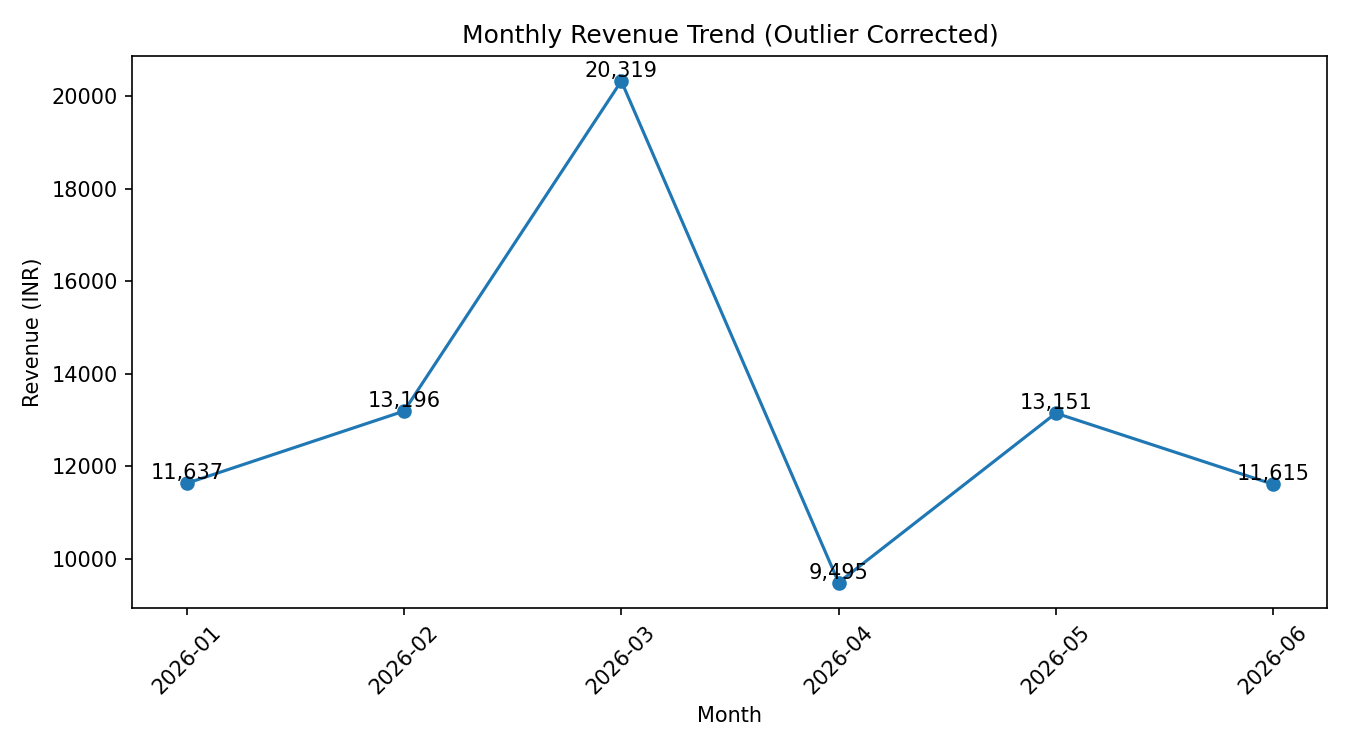
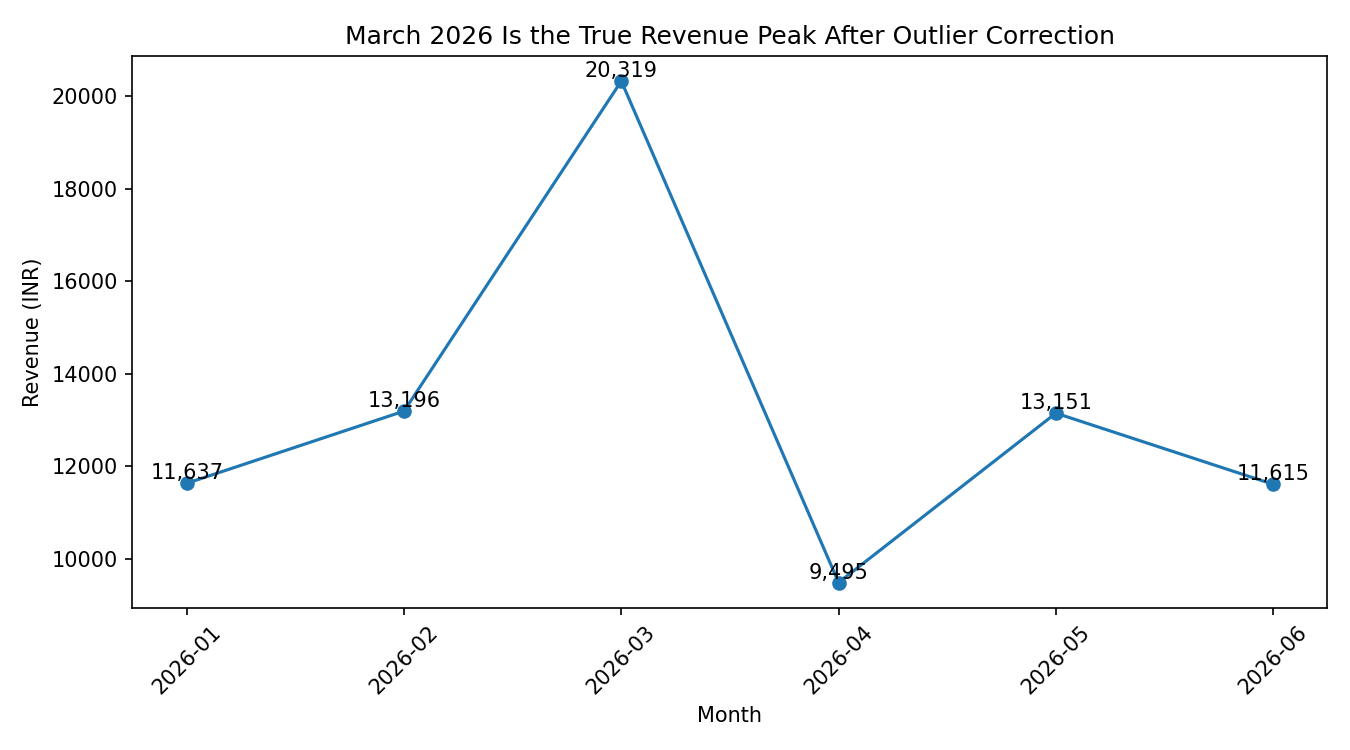
Complete analysis, visualizations, and narrator

Changed region(s): [[0.2489, 0.0307, 0.84, 0.0613]]

diff --git a/analysis/clean_and_eda.py b/analysis/clean_and_eda.py
@@ -1,6 +1,7 @@
 
 import os
 import json
+from itertools import combinations
 import pandas as pd
 
 
@@ -21,6 +22,9 @@ print("Products shape:", products.shape)
 # 2. Standardize payment_method
 # ---------------------------------------------------------
 
+print("\nTask 2: Raw payment_method values BEFORE standardization:")
+print(orders["payment_method"].value_counts(dropna=False))
+
 orders["payment_method"] = (
     orders["payment_method"]
     .astype(str)
@@ -28,7 +32,7 @@ orders["payment_method"] = (
     .str.upper()
 )
 
-print("\nPayment method counts:")
+print("\nPayment method counts AFTER standardization:")
 print(orders["payment_method"].value_counts())
 
 
@@ -139,10 +143,43 @@ duplicate_reconciliation_delta = (
     raw_total_revenue - cleaned_total_revenue
 )
 
+# Independently calculate the value of the five removed duplicate rows
+duplicate_with_products = duplicate_orders.merge(
+    products[["product_id", "price"]],
+    on="product_id",
+    how="left"
+)
+
+duplicate_with_products["order_value"] = (
+    duplicate_with_products["quantity"]
+    * duplicate_with_products["price"]
+    * (
+        1
+        - duplicate_with_products["discount_pct"].fillna(0) / 100
+    )
+)
+
+duplicate_sum = duplicate_with_products["order_value"].sum()
+
+print("\nTask 5: Revenue reconciliation")
 print("Raw total revenue:", round(raw_total_revenue, 2))
+print("Cleaned total revenue:", round(cleaned_total_revenue, 2))
 print(
     "Duplicate reconciliation delta:",
     round(duplicate_reconciliation_delta, 2)
+)
+print(
+    "Independent sum of the 5 duplicate rows:",
+    round(duplicate_sum, 2)
+)
+
+print(
+    f"Reconciliation: Raw revenue of "
+    f"₹{raw_total_revenue:,.2f} minus cleaned revenue of "
+    f"₹{cleaned_total_revenue:,.2f} equals "
+    f"₹{duplicate_reconciliation_delta:,.2f}. "
+    f"This difference is attributable to the five duplicate "
+    f"orders removed."
 )
 
 
@@ -158,23 +195,30 @@ iqr = q3 - q1
 lower_bound = q1 - 1.5 * iqr
 upper_bound = q3 + 1.5 * iqr
 
-quantity_outliers = merged[
+# Create an explicit outlier flag
+merged["is_outlier"] = (
     (merged["quantity"] < lower_bound)
     | (merged["quantity"] > upper_bound)
+)
+
+quantity_outliers = merged[
+    merged["is_outlier"]
 ].copy()
 
-print("\nQuantity IQR:")
+print("\nTask 6: Quantity IQR")
 print("Q1:", q1)
 print("Q3:", q3)
 print("IQR:", iqr)
 print("Lower bound:", lower_bound)
 print("Upper bound:", upper_bound)
 
-print("Quantity outliers:")
+print("\nQuantity outliers with is_outlier flag:")
 print(
-    quantity_outliers[
-        ["order_id", "quantity"]
-    ].to_string(index=False)
+    merged[
+        ["order_id", "quantity", "is_outlier"]
+    ]
+    .query("is_outlier")
+    .to_string(index=False)
 )
 
 
@@ -188,8 +232,23 @@ payment_return_rate = (
     .mul(100)
 )
 
-print("\nReturn rate by payment method:")
+print("\nTask 7: Return rate by payment method:")
 print(payment_return_rate.round(1))
+
+print(
+    "\nHypothesis: COD orders have a higher return rate "
+    "than CARD and UPI orders."
+)
+
+confirmed = (
+    payment_return_rate["COD"]
+    > payment_return_rate.drop("COD").max()
+)
+
+print(
+    "Hypothesis result:",
+    "Confirmed" if confirmed else "Not confirmed"
+)
 
 
 # ---------------------------------------------------------
@@ -206,8 +265,21 @@ segment = (
     )
 )
 
-print("\nPayment method + city tier segmentation:")
+print("\nTask 8: Payment method + city tier segmentation:")
 print(segment.round(1))
+
+highest_risk_key = segment["return_rate_pct"].idxmax()
+highest_risk_rate = segment.loc[
+    highest_risk_key,
+    "return_rate_pct"
+]
+
+print(
+    f"\nHighest-risk segment: "
+    f"{highest_risk_key[0]} + "
+    f"Tier-{highest_risk_key[1]} cities, "
+    f"with a return rate of {highest_risk_rate:.1f}%."
+)
 
 
 # ---------------------------------------------------------
@@ -223,8 +295,47 @@ correlation_columns = [
 
 correlation_matrix = merged[correlation_columns].corr()
 
-print("\nCorrelation matrix:")
+print("\nTask 9: Correlation matrix:")
 print(correlation_matrix.round(3))
+
+
+print("\nCorrelation strength for each pair:")
+
+for col1, col2 in combinations(correlation_columns, 2):
+
+    r = correlation_matrix.loc[col1, col2]
+    strength = abs(r)
+
+    if strength < 0.2:
+        band = "Negligible"
+    elif strength < 0.4:
+        band = "Weak"
+    elif strength < 0.6:
+        band = "Moderate"
+    elif strength < 0.8:
+        band = "Strong"
+    else:
+        band = "Very strong"
+
+    print(
+        f"{col1} vs {col2}: "
+        f"r = {r:.3f}, strength = {band}"
+    )
+
+
+discount_return_corr = correlation_matrix.loc[
+    "discount_pct",
+    "returned"
+]
+
+print(
+    "\nHypothesis: Higher discounts reduce returns."
+)
+
+if abs(discount_return_corr) < 0.2:
+    print("Hypothesis result: Busted")
+else:
+    print("Hypothesis result: Requires further investigation")
 
 
 # ---------------------------------------------------------
@@ -256,11 +367,27 @@ monthly_revenue_corrected = (
     .sum()
 )
 
-print("\nMonthly revenue including quantity outliers:")
+print("\nTask 10: Monthly revenue including quantity outliers:")
 print(monthly_revenue_all.round(2))
 
 print("\nMonthly revenue excluding quantity outliers:")
 print(monthly_revenue_corrected.round(2))
+
+
+print("\nTime-series finding:")
+
+print(
+    "January 2026's apparent revenue lead is inflated "
+    "by two bulk orders: O0011 on 2026-01-28 and "
+    "O0098 on 2026-01-10."
+)
+
+print(
+    f"After excluding these quantity outliers, "
+    f"{monthly_revenue_corrected.idxmax()} is the true "
+    f"peak month, with revenue of "
+    f"₹{monthly_revenue_corrected.max():,.2f}."
+)
 
 
 # ---------------------------------------------------------
@@ -284,22 +411,35 @@ findings = {
         duplicate_reconciliation_delta, 2
     ),
 
+    "duplicate_rows_removed": len(duplicate_orders),
+
+    "duplicate_sum_inr": round(
+        duplicate_sum, 2
+    ),
+
     "return_rate_by_payment": {
         payment: round(rate, 1)
         for payment, rate in payment_return_rate.items()
     },
 
+    "hypothesis_cod_higher_return_rate": (
+        "Confirmed" if confirmed else "Not confirmed"
+    ),
+
     "highest_risk_segment": {
-        "payment_method": "COD",
-        "city_tier": 2,
+        "payment_method": highest_risk_key[0],
+        "city_tier": int(highest_risk_key[1]),
         "return_rate_pct": round(
-            segment.loc[
-                ("COD", 2),
-                "return_rate_pct"
-            ],
+            highest_risk_rate,
             1
         )
     },
+
+    "discount_return_hypothesis": (
+        "Busted"
+        if abs(discount_return_corr) < 0.2
+        else "Requires further investigation"
+    ),
 
     "true_peak_month": {
         "month": true_peak_month,

diff --git a/narrator/generate_narrative.py b/narrator/generate_narrative.py
@@ -138,11 +138,8 @@ March 2026 peak revenue: ₹{findings["true_peak_month"]["revenue_inr"]:,.2f}
         }
 
     except Exception as err:
-        return {
-            "status": "error",
-            "narrative": None,
-            "message": str(err)
-        }
+        print(f"Gemini API unavailable. Using offline fallback. Reason: {err}")
+        return generate_scr_narrative_offline(findings)
 
 
 def check_numeric_accuracy(narrative: str) -> bool:
@@ -180,3 +177,17 @@ def check_numeric_accuracy(narrative: str) -> bool:
     print(f"\nOverall result: {'PASS' if overall else 'FAIL'}")
 
     return overall
+
+
+
+if __name__ == "__main__":
+    with open("narrator/findings.json", "r", encoding="utf-8") as f:
+        findings = json.load(f)
+
+    result = generate_scr_narrative_offline(findings)
+
+    print("===== MAMAEARTH SCR NARRATIVE =====")
+    print(result["narrative"])
+
+    print("\n===== NUMERIC ACCURACY CHECK =====")
+    check_numeric_accuracy(result["narrative"])

diff --git a/analysis/visualize.py b/analysis/visualize.py
@@ -115,7 +115,7 @@ bars = plt.bar(
     payment_return_rate.values
 )
 
-plt.title("Return Rate by Payment Method")
+plt.title("COD Has the Highest Return Rate (44.4%)")
 plt.xlabel("Payment Method")
 plt.ylabel("Return Rate (%)")
 
@@ -186,7 +186,9 @@ plt.plot(
     marker="o"
 )
 
-plt.title("Monthly Revenue Trend (Outlier Corrected)")
+plt.title(
+    "March 2026 Is the True Revenue Peak After Outlier Correction"
+)
 plt.xlabel("Month")
 plt.ylabel("Revenue (INR)")
 plt.xticks(rotation=45)

diff --git a/README.md b/README.md
@@ -1,11 +1,10 @@
-
 # Mamaearth Returns & Growth Intelligence Pipeline
 
 ## Project Overview
 
 This project analyzes Mamaearth order data to understand how product returns affect revenue and margins.
 
-The project uses:
+The pipeline uses:
 
 - SQLite and SQL for relational data storage and reporting
 - Python and Pandas for data cleaning and exploratory analysis
@@ -18,7 +17,7 @@ The project uses:
 ## Project Structure
 
 ```text
-your-repository/
+mamaearth-returns-growth-intelligence/
 ├── data/
 │   ├── customers.csv
 │   ├── products.csv
@@ -38,3 +37,7 @@ your-repository/
 │   ├── generate_narrative.py
 │   └── sample_output.txt
 └── README.md
+
+```
+
+```
